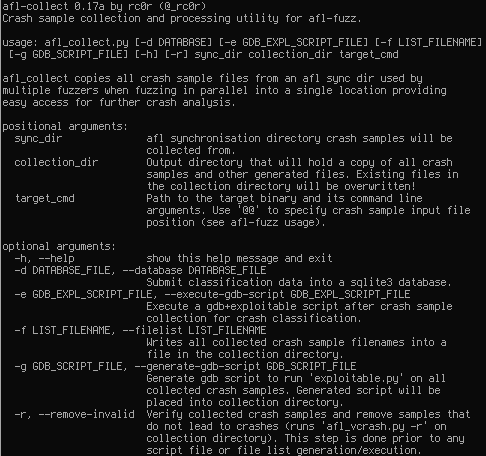
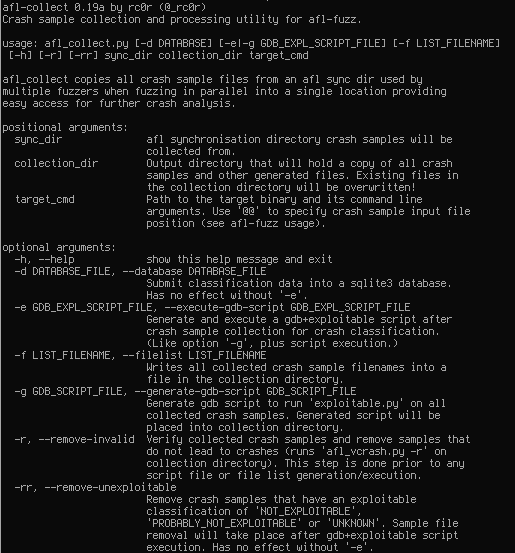
Added auto-removal of uninteresting crash samples

diff --git a/afl_utils/afl_collect.py b/afl_utils/afl_collect.py
@@ -168,17 +168,18 @@ def main(argv):
 
     parser = argparse.ArgumentParser(description="afl_collect copies all crash sample files from an afl sync dir used \
 by multiple fuzzers when fuzzing in parallel into a single location providing easy access for further crash analysis.",
-                                     usage="afl_collect.py [-d DATABASE] [-e GDB_EXPL_SCRIPT_FILE] [-f LIST_FILENAME]\n \
-[-g GDB_SCRIPT_FILE] [-h] [-r] sync_dir collection_dir target_cmd")
+                                     usage="afl_collect.py [-d DATABASE] [-e|-g GDB_EXPL_SCRIPT_FILE] [-f LIST_FILENAME]\n \
+[-h] [-r] [-rr] sync_dir collection_dir target_cmd")
 
     parser.add_argument("sync_dir", help="afl synchronisation directory crash samples  will be collected from.")
     parser.add_argument("collection_dir",
                         help="Output directory that will hold a copy of all crash samples and other generated files. \
 Existing files in the collection directory will be overwritten!")
     parser.add_argument("-d", "--database", dest="database_file", help="Submit classification data into a sqlite3 \
-database.", default=None)
+database. Has no effect without '-e'.", default=None)
     parser.add_argument("-e", "--execute-gdb-script", dest="gdb_expl_script_file",
-                        help="Execute a gdb+exploitable script after crash sample collection for crash classification.",
+                        help="Generate and execute a gdb+exploitable script after crash sample collection for crash \
+classification. (Like option '-g', plus script execution.)",
                         default=None)
     parser.add_argument("-f", "--filelist", dest="list_filename", default=None,
                         help="Writes all collected crash sample filenames into a file in the collection directory.")
@@ -189,6 +190,10 @@ script will be placed into collection directory.", default=None)
                         default=False, help="Verify collected crash samples and remove samples that do not lead to \
 crashes (runs 'afl_vcrash.py -r' on collection directory). This step is done prior to any script file \
 or file list generation/execution.")
+    parser.add_argument("-rr", "--remove-unexploitable", dest="remove_unexploitable", action="store_const", const=True,
+                        default=False, help="Remove crash samples that have an exploitable classification of \
+'NOT_EXPLOITABLE', 'PROBABLY_NOT_EXPLOITABLE' or 'UNKNOWN'. Sample file removal will take place after gdb+exploitable \
+script execution. Has no effect without '-e'.")
     parser.add_argument("target_cmd", nargs="+", help="Path to the target binary and its command line arguments. \
 Use '@@' to specify crash sample input file position (see afl-fuzz usage).")
 
@@ -225,8 +230,8 @@ Use '@@' to specify crash sample input file position (see afl-fuzz usage).")
         print("Found %d invalid crash samples. Cleaning up..." % invalid_num)
         for ci in invalid_samples:
             files_collected.remove(ci)
-            os.remove(ci)
-            overall_crash_sample_num -= 1
+
+        overall_crash_sample_num -= afl_vcrash.remove_samples(invalid_samples)
 
     # generate filelist of collected crash samples
     if args.list_filename:
@@ -234,17 +239,14 @@ Use '@@' to specify crash sample input file position (see afl-fuzz usage).")
         generate_crash_sample_list(os.path.join(out_dir, args.list_filename), files_collected)
 
     # generate gdb+exploitable script
-    if args.gdb_script_file:
-        generate_gdb_exploitable_script(os.path.join(out_dir, args.gdb_script_file), files_collected, args.target_cmd)
-
-    # execute gdb+exploitable script
     if args.gdb_expl_script_file:
+        generate_gdb_exploitable_script(os.path.join(out_dir, args.gdb_expl_script_file), files_collected,
+                                        args.target_cmd)
+
+        # execute gdb+exploitable script
         classification_data = execute_gdb_script(out_dir, args.gdb_expl_script_file, overall_crash_sample_num)
 
-        """
-        TODO: Make use of classification data (database submission, crash sample reduction, ...)
-        """
-
+        # Submit crash classification data into database
         if args.database_file:
             lite_db = con_sqlite.sqliteConnector(args.database_file)
 
@@ -253,6 +255,27 @@ Use '@@' to specify crash sample input file position (see afl-fuzz usage).")
             for dataset in classification_data:
                 if not lite_db.dataset_exists(dataset):
                     lite_db.insert_dataset(dataset)
+
+        # remove crash samples that are classified uninteresting/unknown
+        if args.remove_unexploitable:
+            classification_unexploitable = [
+                'NOT_EXPLOITABLE',
+                'PROBABLY_NOT_EXPLOITABLE',
+                'UNKNOWN'
+            ]
+
+            uninteresting_samples = []
+
+            for c in classification_data:
+                if c[1] in classification_unexploitable:
+                    uninteresting_samples.append(os.path.join(out_dir, c[0]))
+
+            remove_count = afl_vcrash.remove_samples(uninteresting_samples)
+            overall_crash_sample_num -= remove_count
+            print("%d uninteresting crash samples removed. Leaving %d samples in the output directory." %
+                  (remove_count, overall_crash_sample_num))
+    elif args.gdb_script_file:
+        generate_gdb_exploitable_script(os.path.join(out_dir, args.gdb_script_file), files_collected, args.target_cmd)
 
 
 if __name__ == "__main__":

diff --git a/afl_utils/afl_vcrash.py b/afl_utils/afl_vcrash.py
@@ -45,6 +45,17 @@ def verify_samples(crash_samples, target_cmd):
     return num_invalid, crashes_invalid
 
 
+def remove_samples(crash_samples, quiet=True):
+    count = 0
+    for c in crash_samples:
+        if not quiet:
+            print(c)
+        os.remove(c)
+        count += 1
+
+    return count
+
+
 def main(argv):
     show_info()
 
@@ -80,12 +91,11 @@ particularly useful when combined with '-r' or '-f'.")
 
     print("Found %d invalid crash samples" % num_invalid)
 
-    for ci in invalid_samples:
-        if not args.quiet:
+    if args.remove:
+        remove_samples(invalid_samples, args.quiet)
+    elif not args.quiet:
+        for ci in invalid_samples:
             print(ci)
-
-        if args.remove:
-            os.remove(ci)
 
     # generate filelist of collected crash samples
     if args.list_filename:

diff --git a/afl_utils/__init__.py b/afl_utils/__init__.py
@@ -1,2 +1,2 @@
 __author__ = 'rc0r (@_rc0r)'
-__version__ = "0.18a"
+__version__ = "0.19a"

diff --git a/README.md b/README.md
@@ -3,20 +3,6 @@
 Some utilities to automate crash sample processing and analysis for crashes
 found with [american-fuzzy-lop (afl)](http://lcamtuf.coredump.cx/afl/).
 
-### Changelog
-
-Release | Description
-:-------:|----
-0.10a | Initial release, just collect crash sample files
-0.11a | Crash sample file list creation added, afl_vcrash added
-0.12a | gdb+exploitable script generation added
-0.13a | Auto-cleanup of invalid crash samples added
-0.14a | gdb+exploitable script execution and output parsing added for easy crash classification
-0.15a | Code refactoring, minor bug fixes
-0.16a | Minor bug fix for gdb+exploitable script generation
-0.17a | Basic SQLite3 database support added
-0.18a | Fixed gdb+exploitable script interruptions that occur on graceful exits of the target binary
-
 ### Dependencies
 
 * Python3 (with sqlite3)
@@ -47,7 +33,7 @@ Release | Description
 - [x] submit classification data into some sort of database
     - [x] basic sqlite3 database support added
 - [ ] auto clean-up of uninteresting crashes
-    - [ ] by exploitable classification
+    - [x] by exploitable classification
     - [ ] through some means of deduplicating crash samples (might be clever to incorporate this into
           the crash collection step;
           [some ideas](https://groups.google.com/forum/#!topic/afl-users/b5v3mY_hy30))
@@ -80,3 +66,17 @@ Usage:
 
 ![afl_vcrash_usage](https://raw.githubusercontent.com/rc0r/afl-utils/master/.scrots/afl_vcrash_usage.png)
   
+### Changelog
+
+Release | Description
+:-------:|----
+0.10a | Initial release, just collect crash sample files
+0.11a | Crash sample file list creation added, afl_vcrash added
+0.12a | gdb+exploitable script generation added
+0.13a | Auto-cleanup of invalid crash samples added
+0.14a | gdb+exploitable script execution and output parsing added for easy crash classification
+0.15a | Code refactoring, minor bug fixes
+0.16a | Minor bug fix for gdb+exploitable script generation
+0.17a | Basic SQLite3 database support added
+0.18a | Fixed gdb+exploitable script interruptions that occur on graceful exits of the target binary
+0.19a | Added auto-cleanup feature for samples leading to uninteresting crashes
